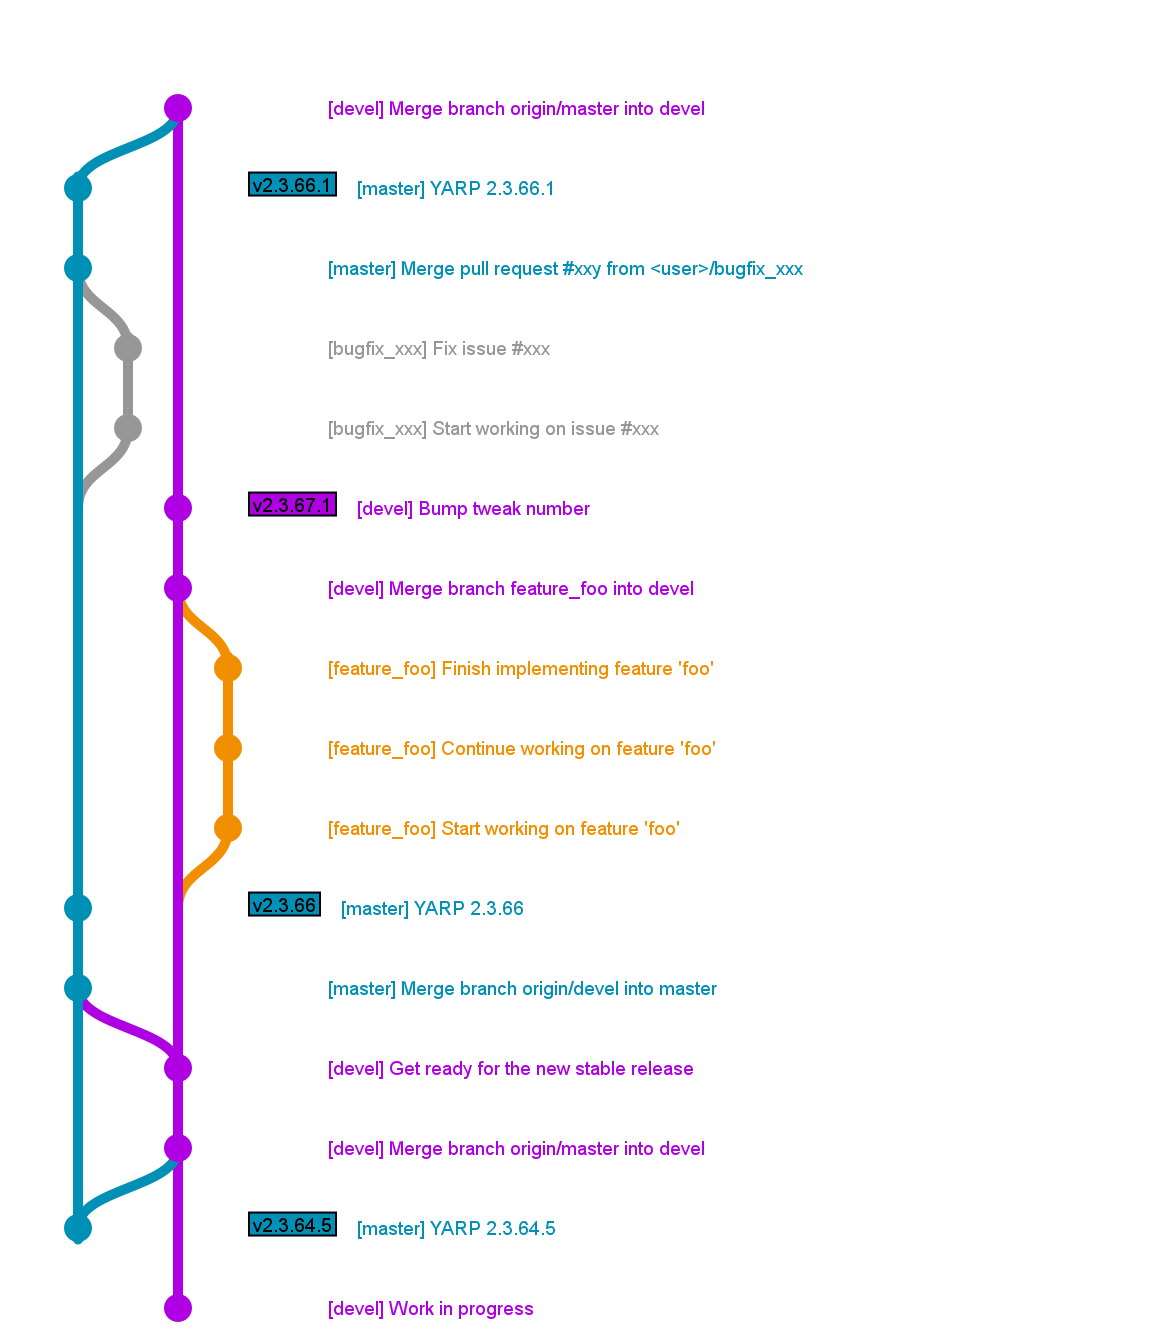
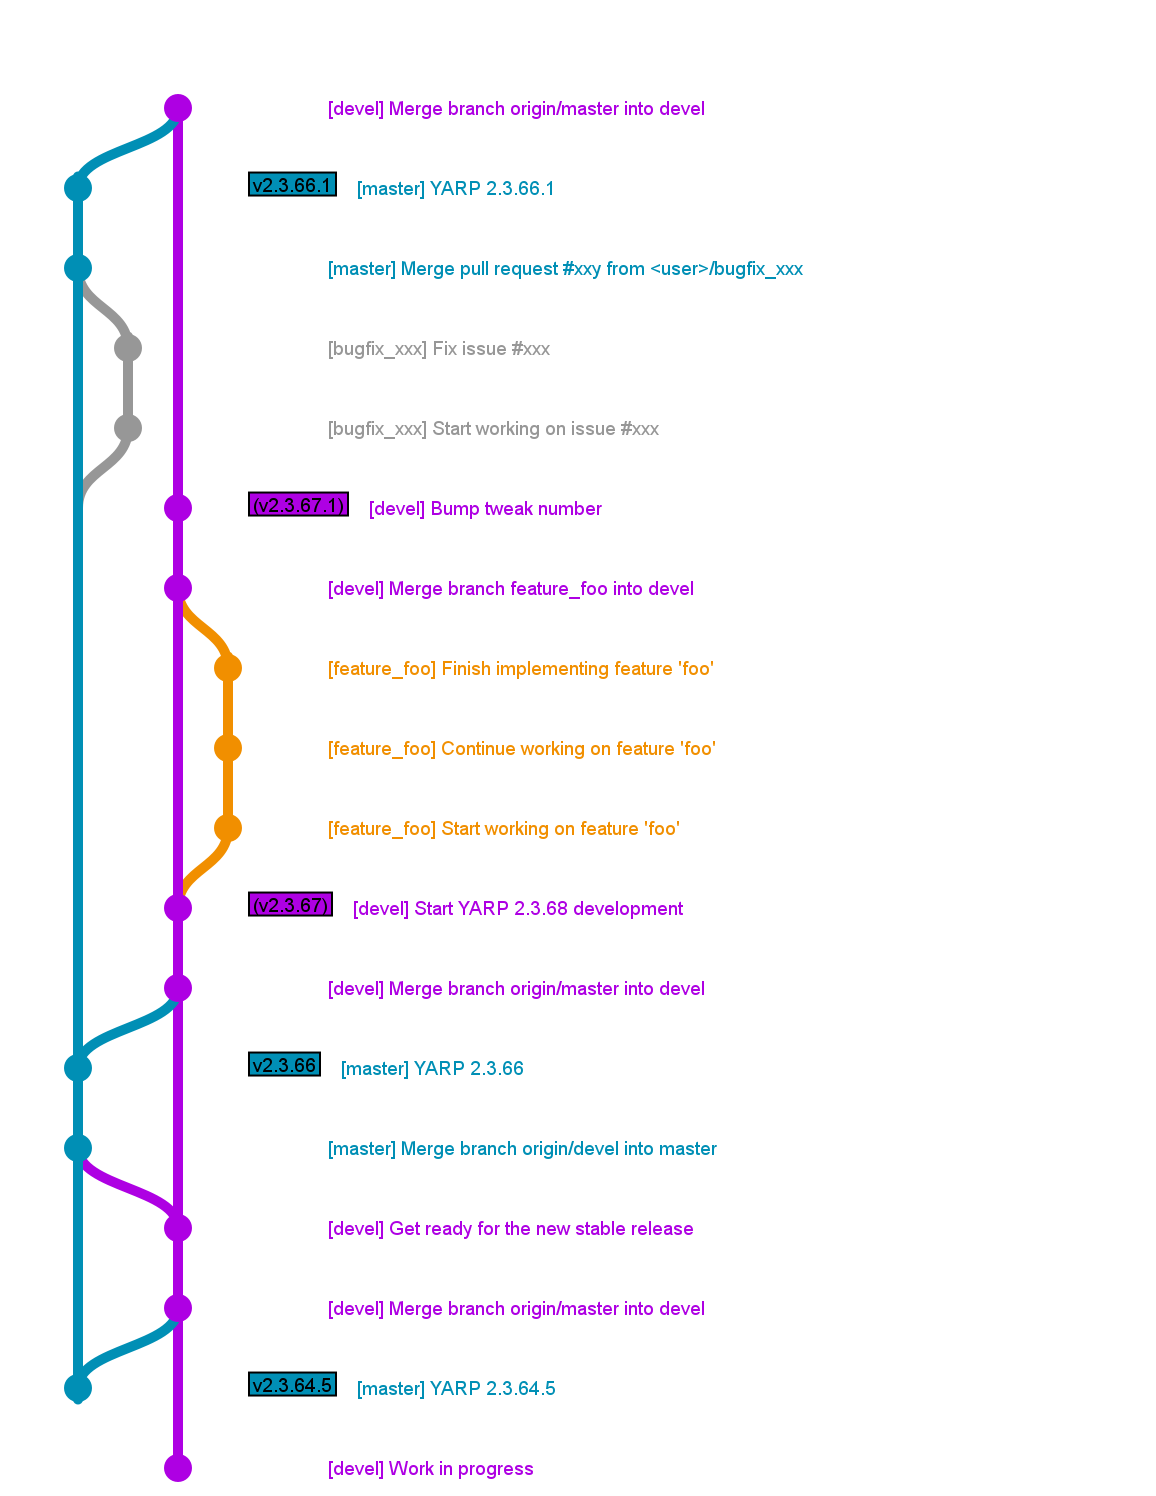
Update CONTRIBUTING.md and make it appear in doxygen generated pages

diff --git a/.github/workflow/workflow.js b/.github/workflow/workflow.js
@@ -35,8 +35,9 @@ devel.commit("Get ready for the new stable release");
 
 
 devel.merge(master, "Merge branch origin/devel into master");
-
 master.commit({ message: "YARP 2.3.66", tag: "v2.3.66" });
+master.merge(devel, "Merge branch origin/master into devel");
+devel.commit({ message: "Start YARP 2.3.68 development", tag: "(v2.3.67)" });
 
 
 var feature_foo = devel.branch({ name: "feature_foo", column: 3 });
@@ -44,7 +45,7 @@ feature_foo.commit("Start working on feature 'foo'");
 feature_foo.commit("Continue working on feature 'foo'");
 feature_foo.commit("Finish implementing feature 'foo'");
 feature_foo.merge(devel, "Merge branch feature_foo into devel");
-devel.commit({ message: "Bump tweak number", tag: "v2.3.67.1" });
+devel.commit({ message: "Bump tweak number", tag: "(v2.3.67.1)" });
 
 
 var bugfix_xxx = master.branch({ name: "bugfix_xxx", column: 1 });

diff --git a/.github/CONTRIBUTING.md b/.github/CONTRIBUTING.md
@@ -1,3 +1,7 @@
+Contributing to YARP
+====================
+
+
 <!-- START doctoc generated TOC please keep comment here to allow auto update -->
 <!-- DON'T EDIT THIS SECTION, INSTEAD RE-RUN doctoc TO UPDATE -->
 **Table of Contents**
@@ -12,15 +16,20 @@
   - [Development branch: `devel`](#development-branch-devel)
   - [Example](#example)
   - [Terminology](#terminology)
+- [Policies](#policies)
+  - [Deprecated features](#deprecated-features)
+  - [Supported Systems](#supported-systems)
 
 <!-- END doctoc generated TOC please keep comment here to allow auto update -->
 
+
+
 Code Style
-==========
+----------
 
 This is the recommended code style for YARP.
 
-## C++
+### C++
 
 * 4 spaces indentation
 * No tabs
@@ -28,7 +37,7 @@ This is the recommended code style for YARP.
 * One EOL at the end of the file
 * All files should use UNIX end of lines
 
-### Header guards
+#### Header guards
 
 * Do not use `#pragma once`, use instead `#ifndef ... #define ... #endif` macro.
 * The defined macro should have this format:
@@ -52,7 +61,7 @@ Example:
 ```
 
 
-## CMake
+### CMake
 
 * 2 spaces indentation
 * No tabs.
@@ -64,7 +73,9 @@ Example:
 * One EOL at the end of the file
 * All files should use UNIX end of lines
 
-## Git
+
+
+### Git
  * Do not push merges generated by `git pull`. Always `pull --rebase`.
  * Always check what you are pushing using some graphic tool (`qgit`,
    `gitg`, `gitk`)
@@ -81,10 +92,12 @@ Example:
  * Never force-push on the `master` and `devel` branches unless there is
    a very good reason to do it
 
-Workflow
-========
 
-## Stable branch: `master`
+
+Workflow
+--------
+
+### Stable branch: `master`
 
 The `master` branch is stable and **should not receive new features**.
 Only **bug fixes** are accepted.
@@ -96,31 +109,34 @@ This is the typical workflow to fix a bug in the master branch.
 * Add some label (FIXME which label?).
 * Assign the issue to yourself.
 * Create a new branch starting from the `master` branch:
+
 ```
 git fetch origin
 git checkout -b <branch_name> origin/master
 ```
+
 * Fix the bug and make one or more commits.
 * [Push the branch on your fork and create a pull request](https://help.github.com/categories/collaborating-on-projects-using-pull-requests/).
 * Wait for someone else to review your fix and merge your pull request.
 * Your fix is now in the `master` branch, now you need to port it to the `devel`
   branch.
   * Ensure that your branches are in sync with `origin`:
+
 ```
 git checkout master
 git pull --rebase origin/master
 git checkout devel
 git pull --rebase origin/devel
 ```
+
   * Merge master into devel and eventually fix the conflicts.
+
 ```
 git merge master
 
 ```
 
-
-
-## Development branch: `devel`
+### Development branch: `devel`
 
 
 We use the branch `devel` to collect the ongoing work, which is given in terms
@@ -141,11 +157,9 @@ git push origin master
 
 
 
-## Example
+### Example
 
 This is an example of workflow involving:
-* the development of a new feature developed in the `feature_foo` branch (orange)
-  and later merged in the `devel` branch (purple).
 * A bug fixed in the `bugfix_xxx` branch (gray) and later merged on the `master`
   branch (blue).
 * A few stable tags in the `master` branch:
@@ -153,15 +167,21 @@ This is an example of workflow involving:
   * **v2.3.66** is the first stable tag for the YARP 2.3.66 release series.
   * **v2.3.66.1** is a stable tag (bug fixes only) for the YARP 2.3.66 release
     series. **v2.3.66** and **v2.3.66.1** are compatible (both API and ABI).
-* One development tag in the `devel` branch (**v2.3.67.1**) that includes one new
-  feature. This kind of tag is used to ensure that other projects can require a
-  specific feature and print an error that is easy to understand when that
-  feature is not available.
+* The development of a new feature developed in the `feature_foo` branch (orange)
+  and later merged in the `devel` branch (purple).
+* Two fake development tag in the `devel` branch:
+  * **(v2.3.67)** that represents the beginning of the development of the next
+    stable release.
+  * **(v2.3.67.1)** that includes one new feature.
+  These are not tagged for real in the repository, but represents the actual
+  version number that other projects can check in order to require a specific
+  feature and print an error that is easy to understand when that feature is not
+  available (i.e. in CMake `find_package(YARP 2.3.67.1 REQUIRED)`
 
-![YARP Workflow](/.github/workflow.png)
+![YARP Workflow](workflow.png)
 
 
-## Terminology
+### Terminology
 
 - **Downstream projects**: code repositories that depend on the project under
   subject.
@@ -170,3 +190,30 @@ This is an example of workflow involving:
   Starting with YARP 2.3.66, the _patch_ version number is an _even_ number for
   stable releases (tagged in `master`), and an _odd_ number for unstable releases
   (tagged in `devel`).
+
+
+
+Policies
+--------
+
+### Deprecated features
+
+Deprecated methods, features, classes, and tools are marked as deprecated
+instead of removed. This will generate a warning when using these from other
+projects, or an error if YARP is built with `YARP_NO_DEPRECATED`
+
+No bugfixes or new features will be added to these, unless it absolutely
+necessary for some reason.
+
+Deprecated features are definitely removed every 4 release series.
+
+
+### Supported Systems
+
+* **Linux**: See [YARP Supported Distributions](http://wiki.icub.org/wiki/YARP_Supported_Distributions)
+* **Windows**:
+  * Visual Studio 10 2010 32 bit
+  * Visual Studio 11 2012 32/64 bit
+  * Visual Studio 12 2013 32/64 bit
+  * Visual Studio 14 2015 32/64 bit (work in progress)
+* **OSX** (FIXME)
